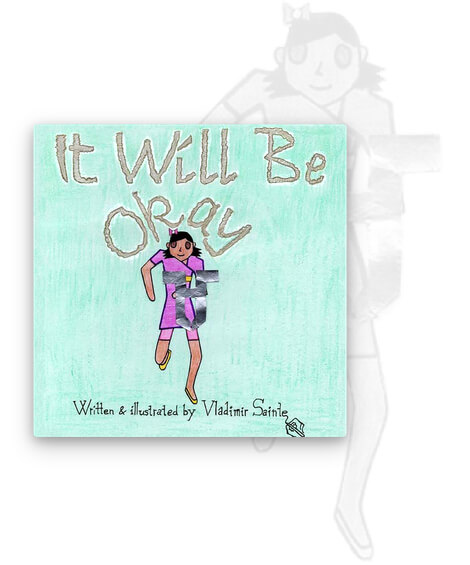
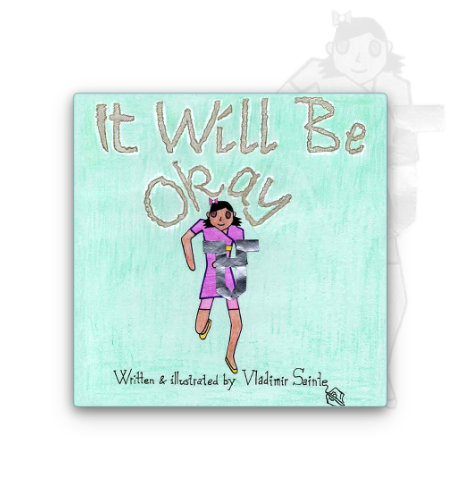
update hero image

diff --git a/src/pages/index.js b/src/pages/index.js
@@ -57,11 +57,8 @@ const Home = ({ location }) => {
 						</div>
 
 						<p className='hero-section__cta-text'>
-							Join the story of{' '}
-							<span className='cta-emphasis'>Alma</span>, as she
-							learns to overcome her fears with the help of the
-							mighty{' '}
-							<span className='cta-emphasis'>Hope Shield</span>.
+							Join the story of Alma, as she learns to overcome
+							her fears with the help of the mighty Hope Shield.
 						</p>
 						<Button
 							href='https://www.amazon.com/Will-Okay-Just-Like-Hero/dp/1942005520/ref=sr_1_1?crid=2SQ0E2D0Z20WN&keywords=it+will+be+okay+vladimir+sainte&qid=1570911125&sprefix=it+will+be+okay+vladimi%2Caps%2C153&sr=8-1'

diff --git a/src/pages/index.css b/src/pages/index.css
@@ -17,20 +17,14 @@
 
 .hero-section__img {
 	width: 100%;
-	max-width: 47.2rem;
 	height: auto;
 }
 
-.hero-section h1 {
-	font-size: 5.7rem;
-}
-
 .hero-section__cta-text {
-	font-size: 1.8rem;
 	line-height: 2;
 	margin-top: 2.4rem;
 	margin-bottom: 6rem;
-	max-width: 44.8rem;
+	max-width: 41.8rem;
 }
 
 .details-section {
@@ -214,8 +208,7 @@
 	}
 
 	.hero-section__img {
-		margin-left: 8rem;
-		margin-top: 2.4rem;
+		margin: 2.4rem 0;
 	}
 
 	.hero-section__cta-text {
